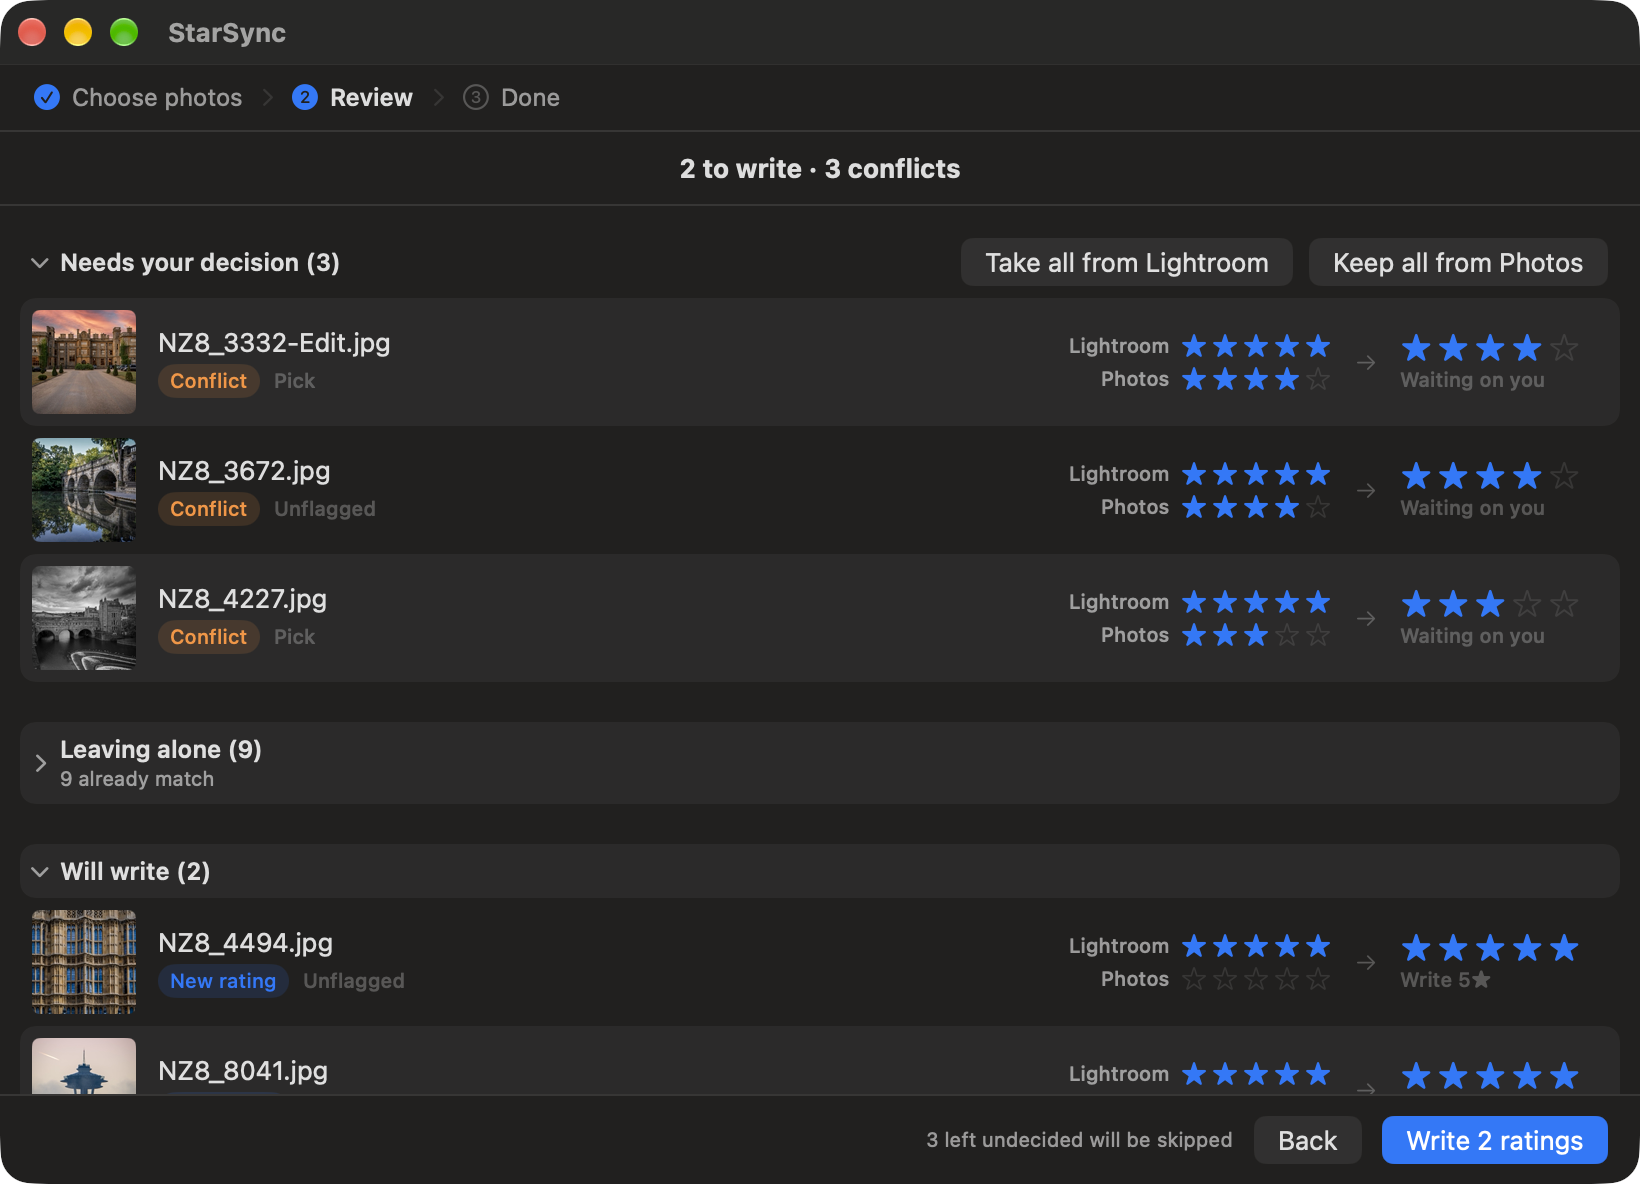
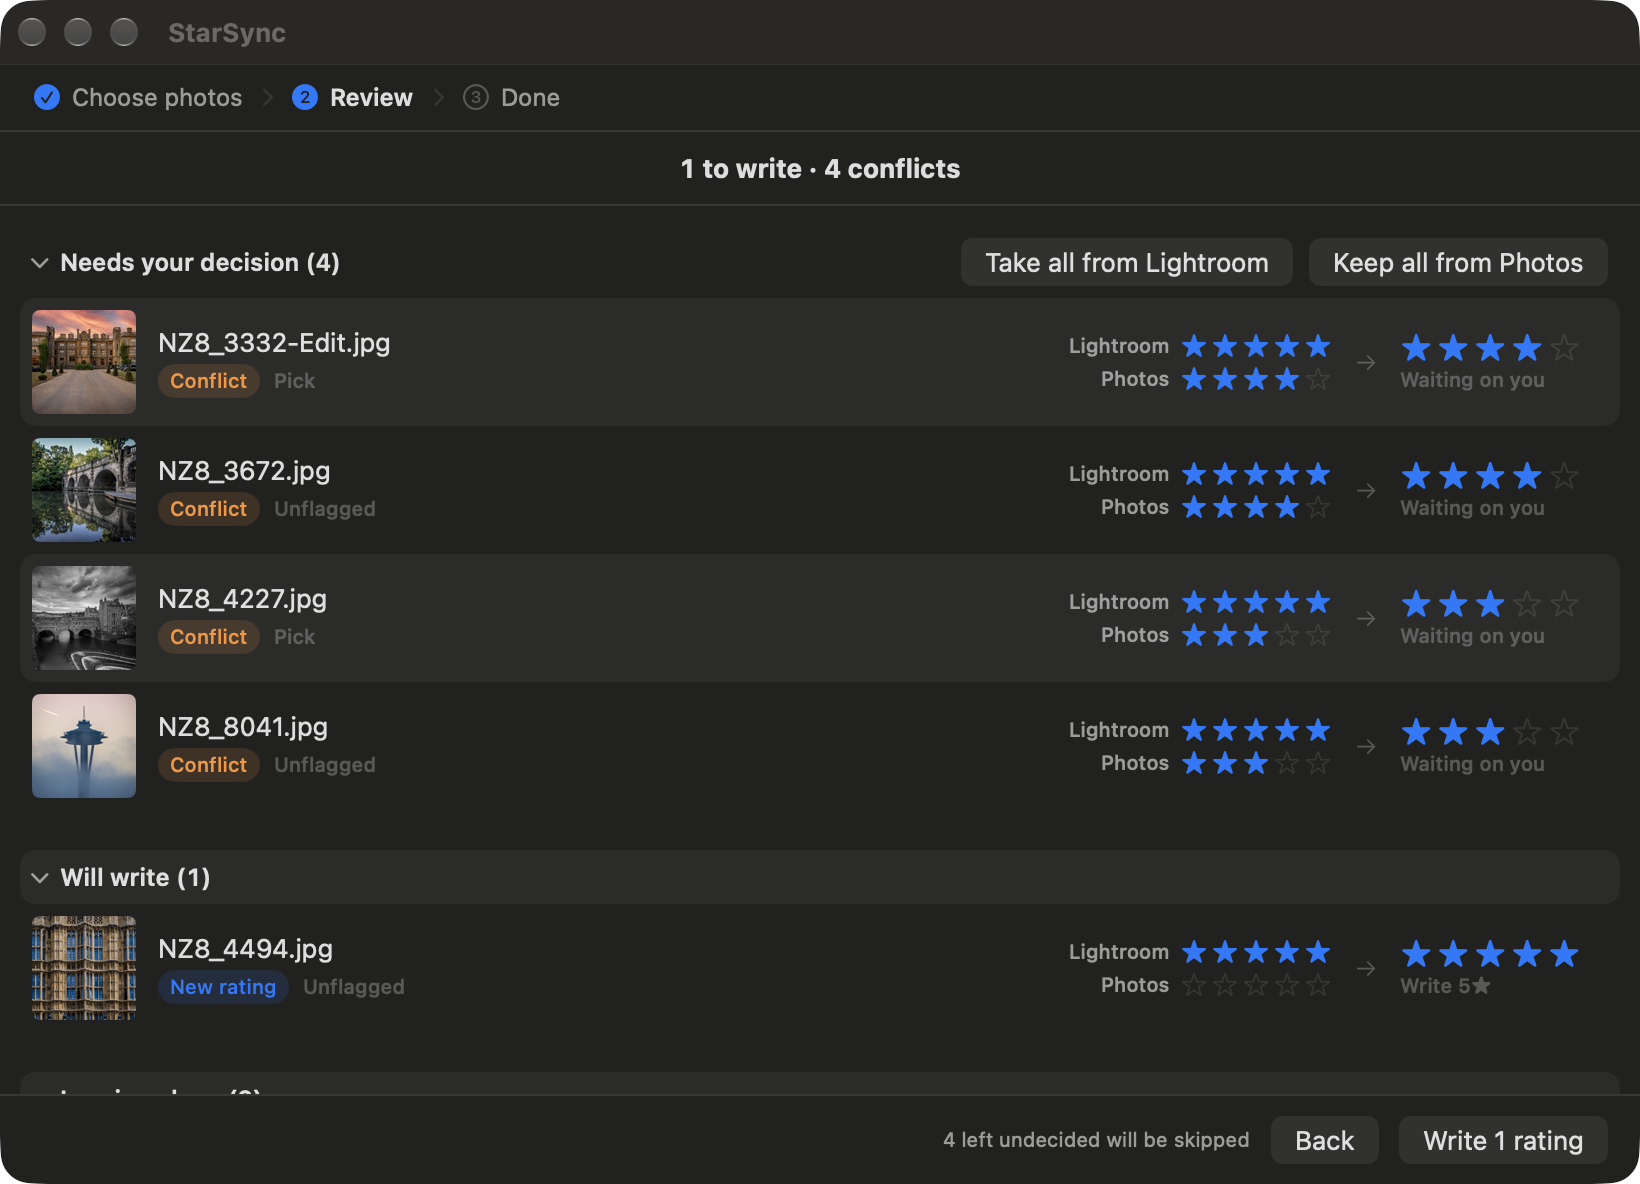
Add the three Review screenshots
StarSync Demo in dark and light at the same scroll position, and the
stale-preview banner. Taken against the build that reorders the sections,
so they match the app as it now is.

The ambiguous section stays unillustrated, and the list says why: it needs
a photo that is both rated and matched to more than one, which none of the
demo album's fourteen are.

diff --git a/docs/screenshots/README.md b/docs/screenshots/README.md
@@ -17,25 +17,20 @@ Don't expect one in a shot.
 
 | File | Step | Appearance | What it shows |
 |---|---|---|---|
+| `preview-dark.png` | Review | Dark | The money shot. Four conflicts waiting on a decision, one rating about to be written, and the Lightroom → Photos star columns beside each row. |
+| `preview-light.png` | Review | Light | The same album at the same scroll position, for showing the pair side by side. |
 | `source-dark.png` | Choose photos | Dark | The album list sorted by name, Entire catalog pinned at the top, counts on every row, and the "29 albums with no rated photos hidden" footer. |
-| `apply-dark.png` | Done | Dark | A finished run: "Wrote 1 rating to Photos.", and underneath it the row that was left alone because Photos moved on after the preview was built — rule 6 doing its job, which no other shot shows. |
+| `apply-dark.png` | Done | Dark | A finished run: "Wrote 1 rating to Photos.", and underneath it the row left alone because Photos moved on after the preview was built — rule 6 doing its job, which no other shot shows. |
+| `preview-stale-dark.png` | Review | Dark | The orange "Ratings in Photos have changed" banner and its Rebuild button, which nothing else shows either. |
 
-## Still needed
+## Not illustrated
 
-| File | Step | Appearance | What it should show |
-|---|---|---|---|
-| `preview-dark.png` | Review | Dark | The money shot. Needs your decision open with conflicts in it, Will write below, and the Lightroom → Photos star columns readable. |
-| `preview-light.png` | Review | Light | The same album and scroll position, so the pair can be shown side by side. |
-
-Both were taken on 2026-11-14 and then thrown away: the Review screen's sections
-were reordered the same day, so the shots showed a layout the app no longer
-produces. A dark one that also catches the orange "Ratings in Photos have
-changed" banner is worth having too, and so is the ambiguous section — neither
-appears anywhere else.
-
-Getting them is short: open the app, pick **StarSync Demo**, Continue, pause a
-few seconds on Review, then flip the system appearance to Light and pause
-again.
+The **Matched more than one photo** section has no shot, and can't easily get
+one. It only lists photos that are rated in Lightroom *and* matched more than
+one photo in Photos, and none of the fourteen in StarSync Demo are both. The
+only place it appears is a whole-catalog run, whose thumbnails are not cleared
+for publishing. Putting one in would mean adding an ambiguous photo to the demo
+album and rating it.
 
 ## Before publishing
 
